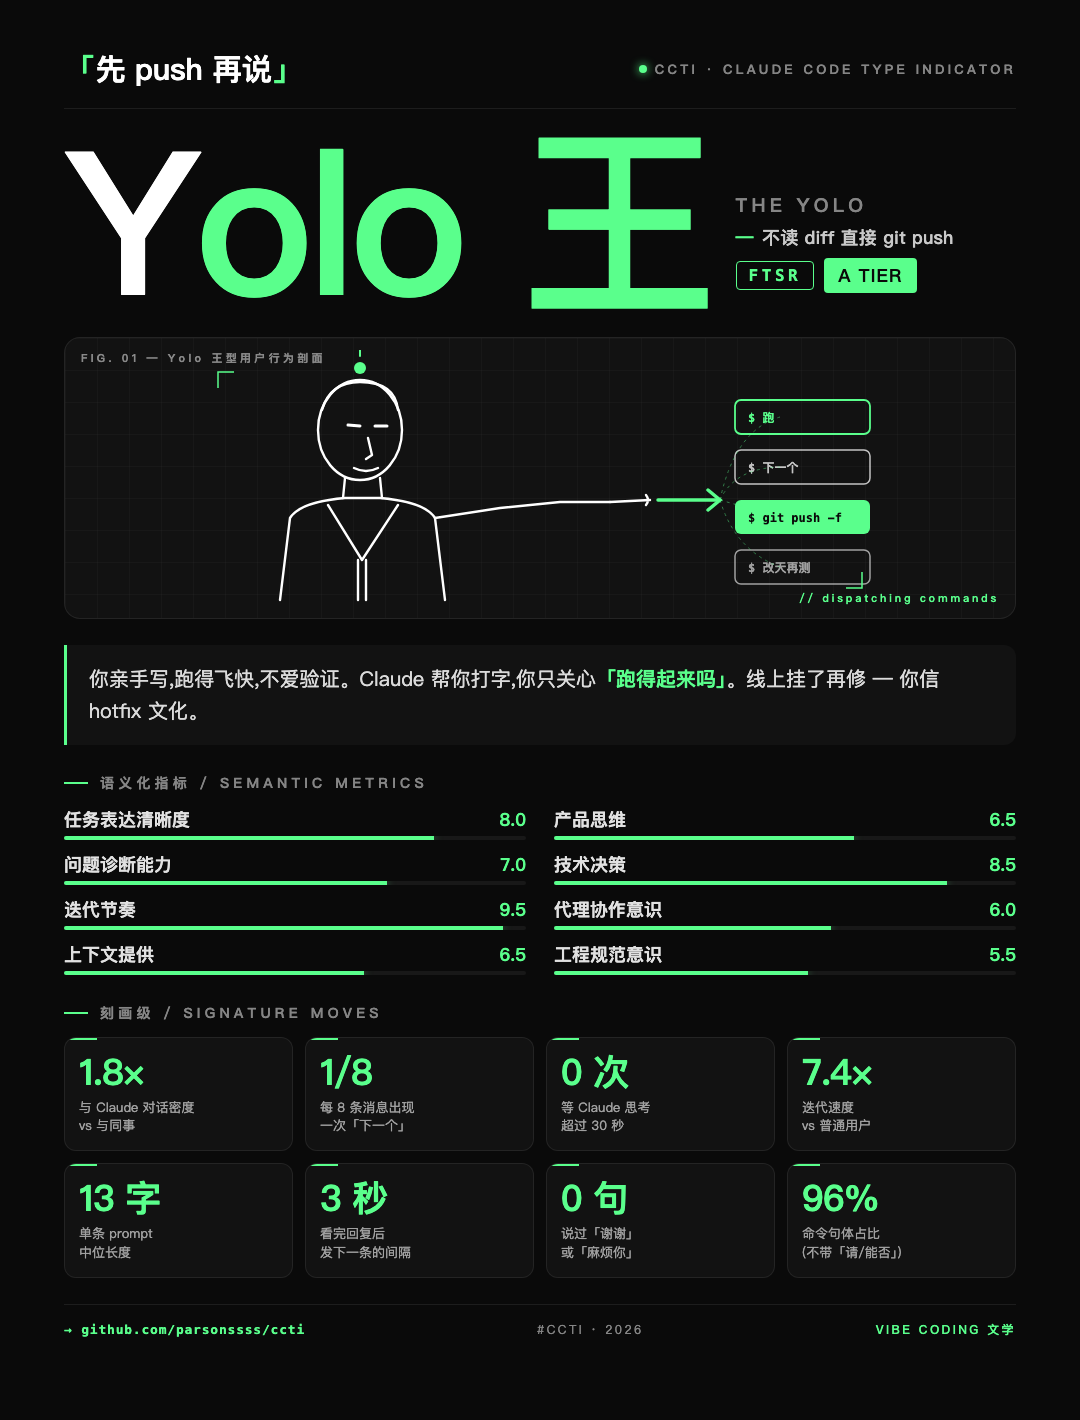
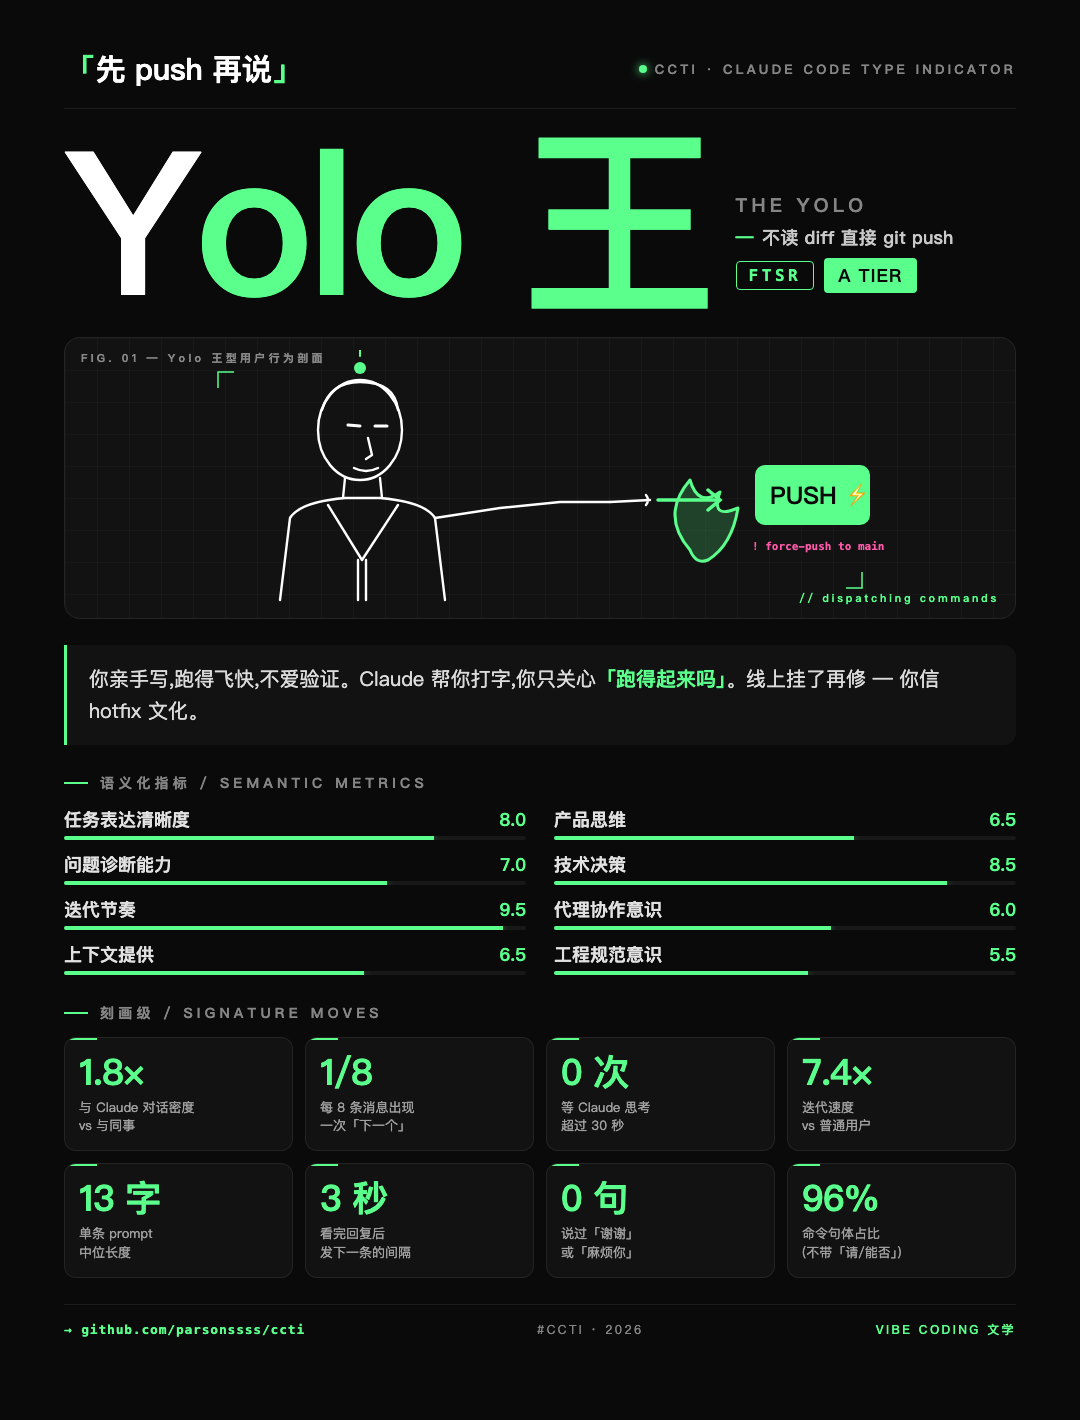
Per-archetype SVG scene: 16 unique illustrations
Each of the 16 archetypes now ships its own SVG fragment in
archetypes.json under `svg_scene`. The card's right-side illustration
is no longer a fixed "person points at 4 command boxes" template —
it now reflects the type's signature visual:

- 稽查官 (Inspector)     — magnifying glass over a diff with +/-
- Yolo 王 (Yolo)          — fire flame + giant green PUSH ⚡ button
- 冷面铁匠 (Smith)        — hammer + anvil + sparks
- 摸鱼大师 (Slacker)      — coffee cup with steam + // brb
- 学究 (Scholar)          — stack of RFC / SICP / TAOCP books
- 主播 (Streamer)         — microphone + sound waves + LIVE
- 保姆 (Caregiver)        — giant speech bubble with 4 sections of context
- 论文人 (Theorist)       — blackboard with ∀x ∃y · ⊢ correctness
- 总监 (Director)         — terminal showing diff with +/- lines
- 主谋 (Mastermind)       — 4 stacked command boxes (kept original)
- 策划官 (Strategist)     — Roadmap timeline with phases
- 远程老板 (Remote Boss)  — video call frame with REC + on-mute
- 教练 (Coach)            — whistle + WHY: ... + boundary
- 灵感发射器 (Spark)      — light bulb + 6 sparks + "我又想到一个"
- 导师 (Mentor)           — paper with red marks crossed out + reject mark
- 画饼大师 (Visionary)    — big PPT slide "三年规划" + slide 4/88

Implementation:
- template.html: command-tag area removed, replaced with single
  {{SVG_SCENE}} placeholder. The person figure + green arm-arrow
  stay shared (the directing gesture works for all motifs).
- SKILL.md: documents the new {{SVG_SCENE}} placeholder and which
[…]

Changed region(s): [[0.6111, 0.2789, 0.825, 0.4028]]

diff --git a/assets/template.html b/assets/template.html
@@ -113,30 +113,10 @@
         <line x1="478" y1="150" x2="538" y2="150"/>
         <path d="M 528 140 L 540 150 L 528 160"/>
       </g>
-      <g font-family="ui-monospace, 'SF Mono', Menlo, monospace" font-size="12" font-weight="700">
-        <g>
-          <rect x="555" y="50"  width="135" height="34" rx="6" fill="none" stroke="#5aff8c" stroke-width="1.8"/>
-          <text x="568" y="72" fill="#5aff8c">{{CMD_1}}</text>
-        </g>
-        <g opacity="0.75">
-          <rect x="555" y="100" width="135" height="34" rx="6" fill="none" stroke="#ffffff" stroke-width="1.5"/>
-          <text x="568" y="122" fill="#ffffff">{{CMD_2}}</text>
-        </g>
-        <g>
-          <rect x="555" y="150" width="135" height="34" rx="6" fill="#5aff8c" stroke="none"/>
-          <text x="568" y="172" fill="#0a0a0a">{{CMD_3}}</text>
-        </g>
-        <g opacity="0.6">
-          <rect x="555" y="200" width="135" height="34" rx="6" fill="none" stroke="#ffffff" stroke-width="1.5"/>
-          <text x="568" y="222" fill="#ffffff">{{CMD_4}}</text>
-        </g>
-      </g>
-      <g stroke="#5aff8c" stroke-width="1" stroke-dasharray="3 4" fill="none" opacity="0.45">
-        <path d="M 540 150 Q 555 80 600 67"/>
-        <path d="M 540 150 Q 555 118 600 117"/>
-        <path d="M 540 150 L 600 167"/>
-        <path d="M 540 150 Q 555 200 600 217"/>
-      </g>
+
+      <!-- archetype-specific scene (motif / command tags / etc.) -->
+      {{SVG_SCENE}}
+
       <g stroke="#5aff8c" stroke-width="1.5" fill="none">
         <path d="M 38 38 L 38 22 L 54 22"/>
         <path d="M 682 222 L 682 238 L 666 238"/>

diff --git a/README.md b/README.md
@@ -10,21 +10,24 @@
 > SBTI-style aesthetic.
 
 <p align="center">
-  <img src="./examples/sample-itsr-mastermind.png"
-       alt="Sample CCTI card — ITSR · The Mastermind"
-       width="46%" />
+  <img src="./examples/sample-itsr-mastermind.png" alt="ITSR · The Mastermind" width="46%" />
   &nbsp;&nbsp;
-  <img src="./examples/sample-ftsr-yolo.png"
-       alt="Sample CCTI card — FTSR · The Yolo"
-       width="46%" />
+  <img src="./examples/sample-ftsr-yolo.png" alt="FTSR · The Yolo" width="46%" />
+</p>
+<p align="center">
+  <img src="./examples/sample-fvmp-caregiver.png" alt="FVMP · The Caregiver" width="46%" />
+  &nbsp;&nbsp;
+  <img src="./examples/sample-ivsr-spark.png" alt="IVSR · The Spark" width="46%" />
 </p>
 
-> Two sample cards side-by-side:
-> **Left** — `ITSR · 主谋(The Mastermind)` at S+ tier, generated from a
-> long-running session where the user mostly dispatched short commands.
-> **Right** — `FTSR · Yolo 王(The Yolo)` at A tier, the archetypal
-> "ship-it-then-fix-it" coder. The 4-letter code badge (`ITSR` / `FTSR`)
-> sits beside the tier badge so the type is identifiable at a glance.
+> Four sample cards, four very different archetypes — note how the
+> right-side SVG illustration is unique to each type:
+> **ITSR · 主谋** dispatches a stack of `$ 下一个 →` commands;
+> **FTSR · Yolo 王** has fire + a giant `PUSH ⚡` button (force-push to main);
+> **FVMP · 保姆** holds a huge speech bubble of context comments;
+> **IVSR · 灵感发射器** glows with a light-bulb + sparks.
+> The 4-letter code badge (`ITSR` / `FTSR` / `FVMP` / `IVSR`) sits beside
+> the tier so the type is identifiable at a glance.
 
 ## ⏳ Use it in a long-running session
 

diff --git a/README_zh.md b/README_zh.md
@@ -9,20 +9,23 @@
 > 8 个刻画级行为标签,黑白绿极简风,SBTI 同款基因。
 
 <p align="center">
-  <img src="./examples/sample-itsr-mastermind.png"
-       alt="CCTI 示例卡 — ITSR · 主谋(The Mastermind)"
-       width="46%" />
+  <img src="./examples/sample-itsr-mastermind.png" alt="ITSR · 主谋" width="46%" />
   &nbsp;&nbsp;
-  <img src="./examples/sample-ftsr-yolo.png"
-       alt="CCTI 示例卡 — FTSR · Yolo 王(The Yolo)"
-       width="46%" />
+  <img src="./examples/sample-ftsr-yolo.png" alt="FTSR · Yolo 王" width="46%" />
+</p>
+<p align="center">
+  <img src="./examples/sample-fvmp-caregiver.png" alt="FVMP · 保姆" width="46%" />
+  &nbsp;&nbsp;
+  <img src="./examples/sample-ivsr-spark.png" alt="IVSR · 灵感发射器" width="46%" />
 </p>
 
-> 两张样卡并排:
-> **左** — `ITSR · 主谋(The Mastermind)`,S+ 档,来自一段长会话,用户全程下短指令派活。
-> **右** — `FTSR · Yolo 王(The Yolo)`,A 档,「先 push 再说」的实战派。
-> 4 字母编码(`ITSR` / `FTSR`)做成 outline badge,跟 Tier badge 并排显示,
-> 一眼能认型。
+> 4 张样卡 · 4 种完全不同的人格 — 注意右侧 SVG 场景**每型都不一样**:
+> **ITSR · 主谋** 派出一摞 `$ 下一个 →` 命令栈;
+> **FTSR · Yolo 王** 火焰 + 巨大 `PUSH ⚡` 按钮(force-push to main);
+> **FVMP · 保姆** 抱着一个巨型语境注释气泡;
+> **IVSR · 灵感发射器** 灯泡发光 + 四周火花。
+> 4 字母编码(`ITSR` / `FTSR` / `FVMP` / `IVSR`)做成 outline badge,跟 Tier 并排,
+> 一眼认型。
 
 ## ⏳ 在长会话里用
 

diff --git a/SKILL.md b/SKILL.md
@@ -97,7 +97,7 @@ Fill `assets/template.html`. Placeholders (use Python `str.replace`, not Jinja):
 | `{{D1_PCT}}` ... `{{D8_PCT}}` | same scores × 10 (the bar widths in percent — e.g. `92` for 9.2) |
 | `{{S1_VALUE}}` ... `{{S8_VALUE}}` | signature stat values |
 | `{{S1_LABEL}}` ... `{{S8_LABEL}}` | signature stat labels (`\n` as literal `\n` → renders as line break via `<br>` doesn't apply here, use `<br>` substitution — see below) |
-| `{{CMD_1}}` ... `{{CMD_4}}` | archetype `accent_lines` |
+| `{{SVG_SCENE}}` | archetype `svg_scene` — full SVG fragment for the right-side illustration (motif unique to each type: magnifying glass for Inspector, fire+PUSH for Yolo, hammer+anvil for Smith, etc.) |
 | `{{YEAR}}` | current year, four digits |
 
 **Note on `\n` in stat labels:** if a label has `\n`, replace it with `<br>`